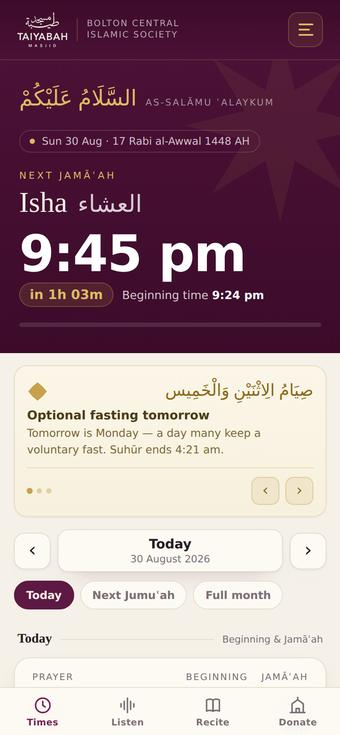
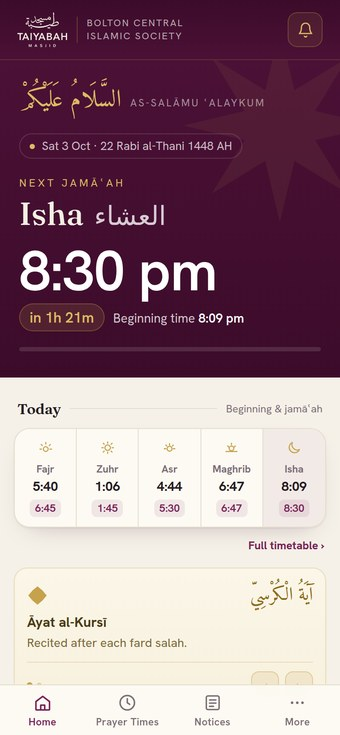
Re-check Taiyabah against its repositories: the app is on Google Play
Four repos back this project and two had moved since the last write-up. The
screens and the home display are untouched since September, so that part of
the copy stands. The app and the website rebrand had both changed a lot.

- The app is on Google Play, as a Trusted Web Activity verified against both
  signing certificates so a store install opens with no browser bar. The case
  study said only "an installable app". It is still installable from the web
  too, and both facts are now on the page.
- Four staff areas became an Admin Centre. The masjid publishes its own prayer
  timetable a year at a time, writes notices, edits the appeal figure and the
  hall rates, opens and closes adult classes, pulls Gift Aid rows for HMRC,
  tracks food bank volunteers and charity collections, and pushes a
  notification to every phone with the app — without a developer and without
  pushing to GitHub. That is what the old copy understated most.
- Six roles and three gates, all enforced in Postgres. The sharpest piece is
  the imam's inbox: no imam address exists anywhere to be harvested, the
  question is a row the app cannot read back, and the table has Row Level
  Security on with no policies at all and every grant revoked — denial by
  default, reachable only through functions that check the role themselves,
  and that check deliberately does not fall back to admin.
- The website is still staged, with robots.txt blocking crawlers pending the
[…]

diff --git a/src/data/cases.js b/src/data/cases.js
@@ -5,10 +5,10 @@ export const cases = {
     "slug": "taiyabah",
     "title": "Taiyabah Masjid",
     "kind": "Community project",
-    "role": "PWA + Cloudflare Worker · OneSignal push · Supabase/Postgres · Stripe · Signage · Python build",
+    "role": "PWA + Android app on Google Play · Cloudflare Worker · OneSignal push · Supabase/Postgres with Row Level Security · Stripe · Signage · Python build",
     "problem": "A Bolton masjid needed prayer times in front of its community every day &mdash; on phones, on the wall, and on the web. Three separate problems, all being solved by hand.",
-    "approach": "I built <strong>one system</strong>: an installable app with live audio and push alerts, a public website, two always-on display screens inside the building, and a home display anyone can run on a spare tablet or TV that sounds the Adhan and Iqamah on time. A Python pipeline feeds all of them from a single timetable, so nothing is typed twice. The website has since been rebuilt around <strong>accounts and staff portals</strong>. Visitors register, confirm their email and sign in with two-step verification; four staff areas sit behind one set of accounts and one set of roles — hall and nikāḥ bookings, adult course sign-ups, a madrasah portal for parents and teachers, and an admin view over all of it. Hall hire takes a whole day, <strong>holds the date for thirty minutes</strong> while the hirer pays a deposit through Stripe, and confirms the booking without an office step; the rate is stored on the booking, so one taken in March keeps March's price. Roles are enforced in the database rather than in the interface, so the hall office role reaches hall bookings and provably nothing else.",
-    "outcome": "The community opens the app daily, the screens refresh themselves, and the new-build appeal runs in the foyer without anyone touching it. The rebuilt site, the accounts and the four portals are finished and staged, waiting on the move to the masjid's own domain. Online booking is deliberately switched off on the public page until the office's diary goes in — the calendar shows how it will work and says plainly that it is not live yet.",
+    "approach": "I built <strong>one system</strong>: an installable app with live audio and push alerts, a public website, two always-on display screens inside the building, and a home display anyone can run on a spare tablet or TV that sounds the Adhan and Iqamah on time. A Python pipeline feeds all of them from a single timetable, so nothing is typed twice. The typefaces are served from the masjid’s own origin and kept by the service worker, so the Arabic still renders properly in the basement.<br><br>The website has since been rebuilt around <strong>accounts and an Admin Centre</strong>. Visitors register, confirm their email and sign in with two-step verification. Behind one set of accounts sit the screens the masjid runs itself — the prayer timetable it publishes a year at a time, notices, the appeal figure, hall rates, adult classes, Gift Aid rows for HMRC, food bank volunteers, charity collections, and a button that sends a notification to every phone with the app on it. <strong>Nobody needs a developer and nobody needs to push to GitHub.</strong> Hall hire takes a whole day, <strong>holds the date for thirty minutes</strong> while the hirer pays a deposit through Stripe, and confirms without an office step; the rate is stored on the booking, so one taken in March keeps March’s price.<br><br><strong>Six roles and three gates, every one of them enforced in Postgres</strong> rather than in the page — a rail that hides a row in the browser is not a lock. The hall office role reaches hall bookings and provably nothing else.<br><br>The newest piece is the <strong>imam’s inbox</strong>, and it is the shape the rest is built in: a congregant writes from the phone app, and <em>no imam’s address exists anywhere</em> to be harvested or handed over. The question becomes a row the app cannot read back; the imam signs in with an authenticator like everybody else and answers; the server sends the reply by reading the answer out of the row rather than trusting anything the request said. That table has Row Level Security on and <strong>no policies at all</strong>, with every grant revoked — which is the denial, not an oversight — and the check that opens it deliberately does not fall back to admin, because somebody writing to the imam in confidence is not writing to the committee.",
+    "outcome": "<strong>The app is on Google Play</strong>, as a Trusted Web Activity verified against both signing certificates so a store install opens with no browser bar, and the same app stays installable straight from the web. The community opens it daily, the screens refresh themselves, and the new-build appeal runs in the foyer without anyone touching it.<br><br>The rebuilt website, the accounts and the Admin Centre are finished and <strong>staged</strong>, waiting on the move to the masjid’s own domain — robots.txt blocks crawlers until then, so the temporary address is never indexed and there is no duplicate to clean up afterwards. Online booking stays switched off on the public page until the office’s diary goes in: the calendar shows how it will work and says plainly that it is not live yet. The madrasah application form is published the same way, as a preview that cannot send, until the data-protection assessment is signed off.<br><br>iOS is the one still open. It needs a D-U-N-S number for the charity before an Apple developer account can exist at all, and Apple’s rules mean a wrapped app has to hand donations to the system browser rather than take them in-app — which is the shape the Stripe links already have.",
     "links": [
       {
         "href": "https://taiyabahapp.ysbdesigns.uk/",
@@ -50,10 +50,10 @@ export const cases = {
       },
       {
         "src": "/assets/img/taiyabah-app.jpg",
-        "alt": "The Taiyabah prayer-times app on a phone",
+        "alt": "The Taiyabah Masjid app on a phone, showing the next jamaʿah and the day’s beginning and jamaʿah times",
         "w": 340,
         "h": 735,
-        "caption": "App · daily prayer times",
+        "caption": "App · on Google Play, and installable from the web",
         "portrait": true
       },
       {
@@ -81,7 +81,7 @@ export const cases = {
         "portrait": false
       }
     ],
-    "description": "A prayer-times app, website, two always-on screens and the accounts and staff portals behind them, for a Bolton masjid."
+    "description": "A prayer-times app on Google Play, a website, two always-on screens, and the Admin Centre a Bolton masjid runs all of it from."
   },
   "venetian": {
     "slug": "venetian",

diff --git a/src/data/projects.js b/src/data/projects.js
@@ -16,11 +16,11 @@ export const lead = [
   {
     slug: 'taiyabah', href: '/taiyabah.html', name: 'Taiyabah Masjid',
     kind: 'Community project', where: 'Bolton',
-    stack: 'PWA + Cloudflare Worker · Supabase/Postgres · Stripe · OneSignal push · Signage',
-    outcome: 'Prayer times in front of a whole community every day, and the office work behind them. One system feeds a phone app, a public website, two always-on screens in the building and a home display — and the rebuilt site now carries accounts, hall and nikāḥ bookings with Stripe deposits, course sign-ups and a madrasah portal.',
+    stack: 'PWA + Android app on Google Play · Cloudflare Worker · Supabase/Postgres with RLS · Stripe · OneSignal push · Signage',
+    outcome: 'Prayer times in front of a whole community every day, and the office work behind them. The app is now on Google Play, and one system feeds it, a public website, two always-on screens in the building and a home display — while the rebuilt site carries accounts and an Admin Centre the masjid runs itself, from the timetable and notices to hall bookings, Gift Aid and a push to every phone.',
     problem: 'A Bolton masjid needed prayer times in front of its community every day — on phones, on the wall, and on the web. Three separate problems, all being solved by hand.',
-    approach: 'One system instead of three. An installable app with live audio and push alerts, a public website, two always-on screens inside the building, and a home display anyone can run on a spare tablet or TV. A Python pipeline feeds all of them from a single timetable, so nothing is typed twice.',
-    layers: { interface: 96, software: 88, infra: 92 },
+    approach: 'One system instead of three. An installable app with live audio and push alerts, a public website, two always-on screens inside the building, and a home display anyone can run on a spare tablet or TV. A Python pipeline feeds all of them from a single timetable, so nothing is typed twice. Six roles and three gates sit in Postgres rather than in the page, and the imam’s inbox is the sharpest case: no address exists to be harvested, and the table that holds a question has Row Level Security on with no policies at all.',
+    layers: { interface: 96, software: 94, infra: 95 },
     img: '/assets/img/taiyabah-web.jpg', alt: 'The Taiyabah Masjid website',
   },
   {

diff --git a/CLAUDE.md b/CLAUDE.md
@@ -488,6 +488,45 @@ repository rather than from the live site.
 `YSB Ventures Ltd` is named in that repository and is still deliberately not
 carried across.
 
+**Phase 13 — Taiyabah re-checked against its repositories. DONE.** Four repos
+back it; two had moved. The screens and the home display are untouched since
+September, so the write-up for those still stands. The app and the website
+rebrand had both changed substantially.
+
+- **The app is on Google Play**, as a Trusted Web Activity verified against
+  both signing certificates so a store install opens with no browser bar. The
+  case study said only "an installable app". It is still installable from the
+  web as well, and both facts are now on the page.
+- **Four staff areas became an Admin Centre.** The masjid publishes its own
+  prayer timetable a year at a time, writes notices, edits the appeal figure
+  and the hall rates, opens and closes adult classes, pulls Gift Aid rows for
+  HMRC, tracks food bank volunteers and charity collections, and pushes a
+  notification to every phone with the app — without a developer and without
+  pushing to GitHub. That is the outcome the old copy understated most.
+- **Six roles and three gates, all in Postgres.** The sharpest piece is the
+  **imam's inbox**: no imam address exists anywhere to be harvested, the
+  question is a row the app cannot read back, and the table has Row Level
+  Security on with *no policies at all* and every grant revoked — denial by
+  default, reachable only through functions that check the role themselves.
+  The check deliberately does not fall back to `admin`.
+- **The website is still staged.** `robots.txt` there still blocks crawlers
+  pending the move to the masjid's own domain, so "finished and staged" was
+  correct and stays. Online booking and the madrasah application form are both
+  deliberately published as previews that cannot send.
+- **iOS is the open item**, blocked on a D-U-N-S number for the charity.
+
+**Two standing constraints came out of this.** First, **the staff portals
+cannot be screenshotted from here** — every one of them is behind a sign-in
+against the live database, which holds children's records including medical
+and SEND notes. The existing venue capture is safe because it was taken
+against drama-range data; do not try to extend the set by signing in. Second,
+that repository publishes **role counts and a roll size**. Those are the
+masjid's operational facts, not YSB's, and they stay off this site for the
+same reason MasjidOne's pupil counts do.
+
+The app screenshot was retaken because the old one predated the current
+design; it needs no sign-in and shows only a public timetable.
+
 ### Known, unfixed
 
 - **Lighthouse scores are still local.** They are no longer font-blocked, but
